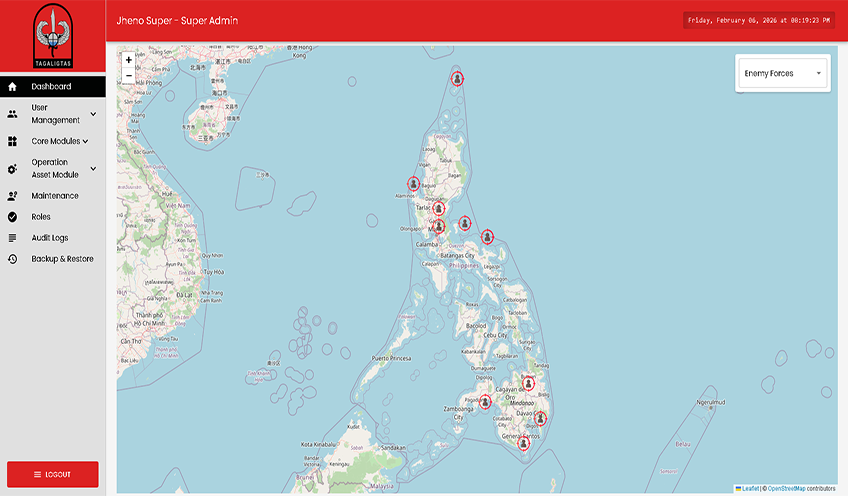
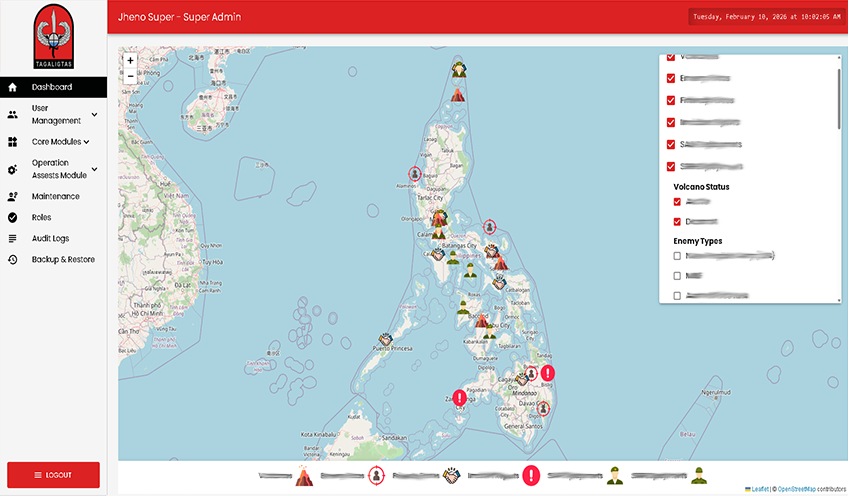
refactor: removed hardcoded test cases and fixed yrs XP display

diff --git a/src/components/project/ProjectView.jsx b/src/components/project/ProjectView.jsx
@@ -1,7 +1,5 @@
 import { useState } from "react";
 import Projects from "./Projects";
-import TestCaseTable from "./TestCaseTable";
-
 import card1 from "../../assets/images/portfolio-images/card-1.jpg";
 import card2 from "../../assets/images/portfolio-images/card-2.jpg";
 import card3 from "../../assets/images/portfolio-images/card-3.png";
@@ -10,117 +8,13 @@ import card5 from "../../assets/images/portfolio-images/card-5.png";
 import card6 from "../../assets/images/portfolio-images/card-6.png";
 
 const projectData = [
-  { id: 1, image: card1, category: "QA TESTING", title: "BGC Bus App", description: "Transport app for commuters to pay for their bus fare as well as track the arrival time of the buses to their nearest station." },
-  { id: 2, image: card2, category: "QA TESTING", title: "San Pedro App", description: "An app catered for the citizens to immediately request for emergency assistance and keep track of the latest news from their government." },
-  { id: 3, image: card3, category: "QA TESTING", title: "Mission Eye (Tagaligtas)", description: "GIS-based situational awareness and incident tracking platform which provides a real-time operational view via an interactive map." },
-  { id: 4, image: card4, category: "QA TESTING", title: "e-Notary", description: "Web application that allows users to request a digital notarization as well as consultations with lawyers online." },
-  { id: 5, image: card5, category: "QA TESTING", title: "Project Liwanag", description: "Advanced e-learning platform tailored for teachers to help them gain more knowledge and skills to become more efficient in teaching their students." },
-  { id: 6, image: card6, category: "QA TESTING", title: "IRIS", description: "Digital Signage Content Management System which helps organizations manage and display digital content on their signage systems." },
+  { id: 1, image: card1, category: "QA TESTING", title: "BGC Bus App", description: "Transport app for commuters to pay for their bus fare as well as track the arrival time of the buses to their nearest station.", testingConducted: ["Validated guest access and restricted feature handling for unregistered users", "Tested QR payment system and e-wallet transaction flow", "Verified real-time bus arrival tracking and departure indicators on the route map"] },
+  { id: 2, image: card2, category: "QA TESTING", title: "San Pedro App", description: "An app catered for the citizens to immediately request for emergency assistance and keep track of the latest news from their government.", testingConducted: ["Validated onboarding flow and registration process for new users", "Tested MPIN setup and account creation workflow", "Verified emergency assistance request submission and government news feed functionality"] },
+  { id: 3, image: card3, category: "QA TESTING", title: "Mission Eye (Tagaligtas)", description: "GIS-based situational awareness and incident tracking platform which provides a real-time operational view via an interactive map.", testingConducted: ["Validated GIS-based interactive map rendering and real-time location accuracy", "Tested incident reporting and tracking workflow from creation to resolution", "Verified real-time situational awareness dashboard data updates"] },
+  { id: 4, image: card4, category: "QA TESTING", title: "e-Notary", description: "Web application that allows users to request a digital notarization as well as consultations with lawyers online.", testingConducted: ["Validated digital notarization request and document upload workflow", "Tested online lawyer consultation booking and scheduling system", "Verified secure user authentication and document management features"] },
+  { id: 5, image: card5, category: "QA TESTING", title: "Project Liwanag", description: "Advanced e-learning platform tailored for teachers to help them gain more knowledge and skills to become more efficient in teaching their students.", testingConducted: ["Validated course enrollment and skill-building module accessibility", "Tested content delivery and interactive learning assessment tools", "Verified teacher progress tracking and performance reporting features"] },
+  { id: 6, image: card6, category: "QA TESTING", title: "IRIS", description: "Digital Signage Content Management System which helps organizations manage and display digital content on their signage systems.", testingConducted: ["Validated digital content upload, scheduling, and display rendering", "Tested multi-screen signage management and content synchronization", "Verified organization-wide content distribution and role-based access control"] },
 ];
-
-const hardcodedTestCases = {
-  1: [
-    {
-      testId: "TC_BGC_001",
-      scenario: "Guest access",
-      functionalTest: "Validate that the app allows users to open and access the app without registering or logging in",
-      expectedResult: "User should be able to view and access the app (bus ETA & basic route info) without logging in",
-      actualResult: "The user was able to access the bus ETA screen without logging in",
-      status: "Passed",
-    },
-    {
-      testId: "TC_BGC_007",
-      scenario: "Restricted features for guests",
-      functionalTest: "Validate that Guest Users cannot access QR Payment features (generate QR, e-wallet, transactions)",
-      expectedResult: "Guest users should be unable to access the QR payment features (generate QR, e-wallet, transactions)",
-      actualResult: "Guest users was unable to access the QR payment features (generate QR, e-wallet, transactions)",
-      status: "Passed",
-    },
-    {
-      testId: "TC_BGC_015",
-      scenario: "Login/Registration access",
-      functionalTest: "Validate that the login and registration options are accessible to guest user",
-      expectedResult: "Both the login and registration options should be visible and accessible to guest users in all screens of the app",
-      actualResult: "There is currently no option for guest users to login or register in the ETA screen",
-      status: "Failed",
-    },
-    {
-      testId: "TC_BGC_036",
-      scenario: "Bus departure indication",
-      functionalTest: "Validate that once the bus departs from a station, the station it left appears as inactive (grayed out or visually distinct)",
-      expectedResult: "The station indicator should be grayed out",
-      actualResult: "The station indicator was grayed out after the bus left the station",
-      status: "Passed",
-    },
-    {
-      testId: "TC_BGC_039",
-      scenario: "Bus indicator movement",
-      functionalTest: "Validate that when the bus leaves a station, the bus indicator moves toward the middle of the route line between the previous and next station",
-      expectedResult: "The bus indicator should move toward the middle of the route line between the previous and next station",
-      actualResult: "The bus indicator moved toward the middle of the route line between the previous and next station",
-      status: "Passed",
-    },
-    {
-      testId: "TC_BGC_040",
-      scenario: "Bus indicator movement",
-      functionalTest: "Validate that once the bus reaches the next station, the bus indicator stops exactly at that station",
-      expectedResult: "The bus indicator should stop exactly at that station",
-      actualResult: "The bus indicator stopped exactly at that station",
-      status: "Passed",
-    }
-  ],
-  2: [
-    {
-      testId: "TC_SP_001",
-      scenario: "Onboarding",
-      functionalTest: "Validate that the user will be directed to the onboarding screens upon first opening the app",
-      expectedResult: "User should be directed to the onboarding screens upon first opening the app",
-      actualResult: "User was directed to the onboarding screens upon first opening the app",
-      status: "Passed",
-    },
-    {
-      testId: "TC_SP_005",
-      scenario: "Registration entry",
-      functionalTest: "Validate that the user will be redirected to the registration screen when they tap on the 'Register' button in the onboarding screens",
-      expectedResult: "User should be redirected to the registration screen",
-      actualResult: "User was redirected to the registration screen",
-      status: "Passed",
-    },
-    {
-      testId: "TC_SP_007",
-      scenario: "Registration form",
-      functionalTest: "Validate that the user can fill out the registration form and submit it successfully",
-      expectedResult: "Registration form should be submitted successfully",
-      actualResult: "Registration form was submitted successfully",
-      status: "Passed",
-    },
-    {
-      testId: "TC_SP_011",
-      scenario: "MPIN setup",
-      functionalTest: "Validate that the user can set up their MPIN",
-      expectedResult: "MPIN should be set up successfully",
-      actualResult: "MPIN was set up successfully",
-      status: "Passed",
-    },
-    {
-      testId: "TC_SP_015",
-      scenario: "Successful account creation",
-      functionalTest: "Validate that after successfully submitting the registration form and setting up the MPIN, the user's account is created and they are redirected to the login screen",
-      expectedResult: "User should be redirected to the login screen",
-      actualResult: "User was redirected to the login screen",
-      status: "Passed",
-    },
-    {
-      testId: "TC_SP_016",
-      scenario: "Login",
-      functionalTest: "Validate that the user can log in with their registered credentials",
-      expectedResult: "User should be able to log in successfully and be redirected to the home screen",
-      actualResult: "User was able to log in successfully and was redirected to the home screen",
-      status: "Passed",
-    },
-  ]
-};
-
 const ProjectView = () => {
   const [selectedProject, setSelectedProject] = useState(null);
   const [enlargedImage, setEnlargedImage] = useState(null); // State sa clicked image
@@ -199,11 +93,14 @@ const ProjectView = () => {
                 </div>
               </div>
 
-              {/* Test cases section */}
+              {/* Testing Conducted section */}
               <div className="p-6">
-                <h3 className="text-lg font-semibold mb-4">Test Cases</h3>
-                <h6 className="text-gray-500 mb-4">Please note that due to confidentiality agreements, some projects do not allow test cases to be displayed publicly.</h6>
-                <TestCaseTable testData={hardcodedTestCases[selectedProject.id] || []} />
+                <h3 className="text-lg font-semibold mb-4">Testing Conducted</h3>
+                <ul className="list-disc list-inside space-y-2 text-gray-600">
+                  {selectedProject.testingConducted?.map((item, index) => (
+                    <li key={index}>{item}</li>
+                  ))}
+                </ul>
               </div>
             </div>
           </div>

diff --git a/src/components/introduction/startDate.jsx b/src/components/introduction/startDate.jsx
@@ -10,8 +10,15 @@ const calculateExperience = (startDateStr) => {
     months += 12;
   }
   
-  const formatted = years + (months > 0 ? parseFloat(`.${months}`) : 0);
-  return formatted.toFixed(1);
+  if (years === 0 && months === 0) {
+    return "0";
+  }
+
+  if (months === 0) {
+    return `${years}`;
+  }
+
+  return `${years}.${months.toString().padStart(2, '0')}`;
 };
 
 export default calculateExperience;
